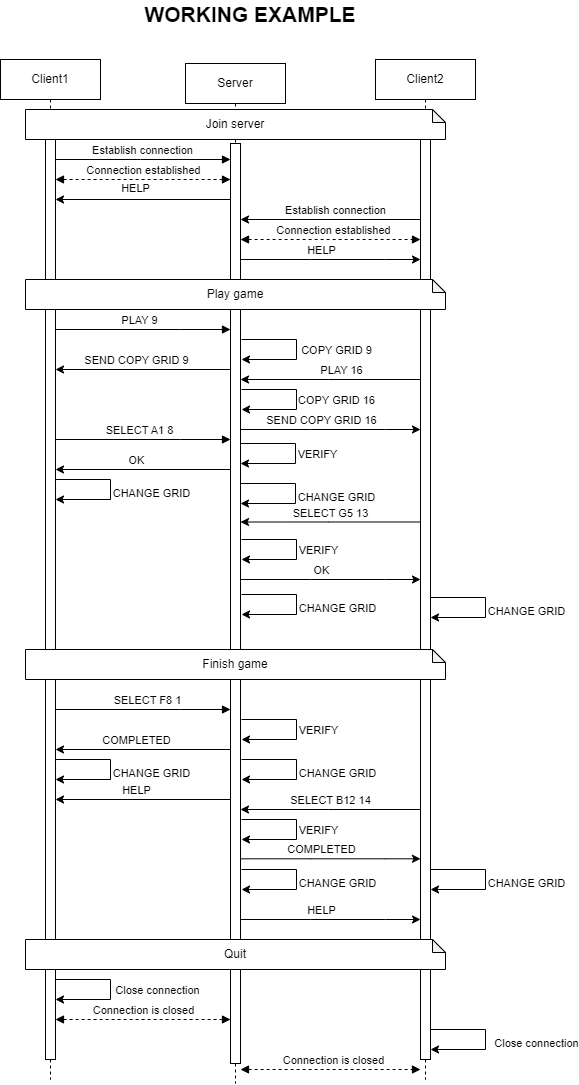
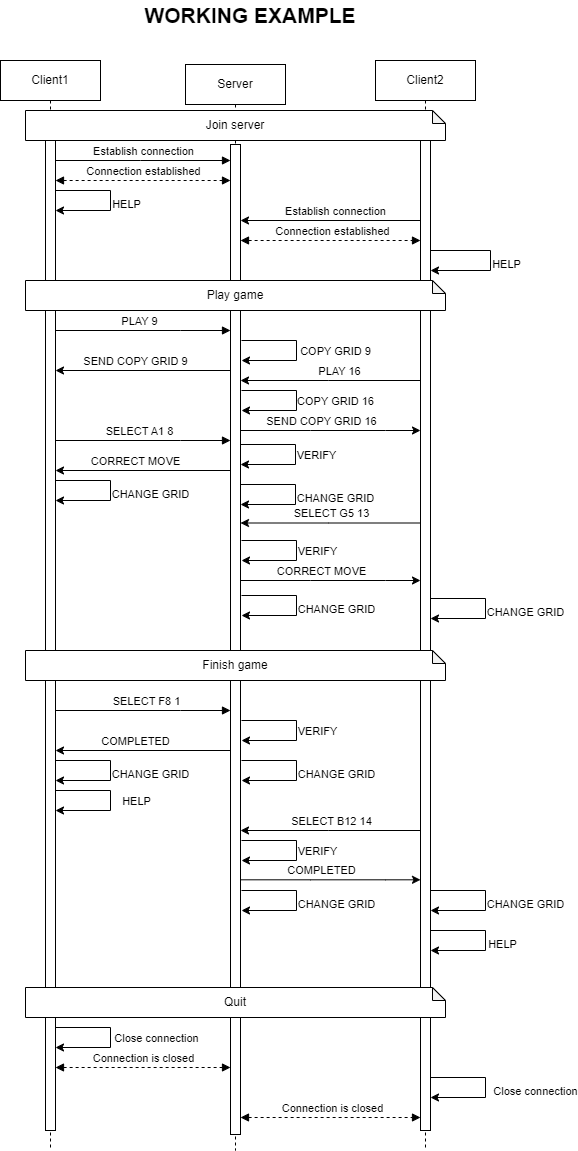
Protocol enhance

diff --git a/protocol.md b/protocol.md
@@ -46,18 +46,20 @@ The Sudoku Game Protocol uses TCP to ensure reliable data transmission. The serv
 ### Establish connection
 Server sends HELP: 
 'Welcome to the Sudoku game, here are the commands to start:
-- PLAY <size of grid> (9/16)
-- SELECT <case name> <number to play>
-
-You can anytime send HELP to see it again!'
+- PLAY <size of grid> (9 or 16) 
+- SELECT <case name> <number to play> (if the size of grid is 9: case name : A1-I9, if the size of grid is 16 : A1 - P16");
+- QUIT
+You can anytime send HELP to see it again!
 ### Start the game
 ```bash 
 PLAY <size of grid>
 ```
-- size of grid: choose the size of the sudoku grid (9/16)
+- size of grid: choose the size of the sudoku grid (9 or 16)
 #### Response
+- OK : The game starts
 - ERROR : An error occurred during the start of the game. The size of the grid must be 9 or 16. The error codes are as follow:
   - 1: The size of the grid does not exist
+  - 2: You must enter a size parameter
 
 ### Make a move
 ```bash
@@ -66,18 +68,15 @@ SELECT <case name> <number to play>
 - case name : Select the name of the case, for example, with a grid 9: case name are from 'A1' to 'I9'.
 - number to play: Select the number you want to introduce to the case name.
 #### Response
-- RETRY : The case name corresponds to nothing. Choose a case name valid that exists on the grid.
-- 1: The case name is not valid
-- RETRY : Wrong answer, retry.
-  - 1: The number must be between 1 and size of grid
-  - 2: The response is not valid
+- CORRECT MOVE
+- BAD MOVE : This number can't be here!
+- ALREADY PLACED : This is a fixed variable, it can not be changed
+- OUT OF BOUNDS : Select a case or a number that exists on the grid
   
 ### End of game 
 Server sends COMPLETED:
 Congratulation, you won!
 then it sends HELP again.
-
-
 
 ## Section 5 - Examples
 
@@ -87,8 +86,15 @@ then it sends HELP again.
 ### ERROR: Select a game size that does not exits
 ![](Images/SudokuE1.png)
 
-### ERROR : Select a wrong input or a case used by a fixed variable
-![](Images/SudokuRet.png)
+### RETRY : Select a wrong input
+![](Images/SudokuWI.png)
+
+### RETRY : Select a case with a fix variable
+![](Images/SudokuFV.png)
+
+### RETRY : Select a number or a case out of bounds
+![](Images/SudokuOoB.png)
+
 
 
 
